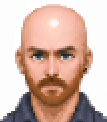
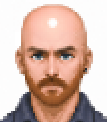
Blink the portrait on a timer and on every landed hit
Every 15s while idle, and on each hit that plays a hit sound -- the click
attack and all three slashes of the limit break.

Any blink restarts the idle countdown, so a hit that has just shut his
eyes is not followed by an idle blink moments later.

The swap changes the top layer's src without touching its key, so it is a
straight cut rather than a cross-fade: eyes shut and open again, they do
not dissolve into it. It also means a blink cannot interrupt a glance that
is still fading.

Note the blink frame is drawn over the centre pose and is the only variant
there is, so a blink only shows while he is looking straight ahead. That
is nearly always true for the click attack, since the pointer is on the
portrait and therefore inside the dead zone. It is often false for the
limit break, which is triggered from the gauge off to the right.

Claude-Session: https://claude.ai/code/session_01CjnpaYAr8vizShw4o1xh1Z

diff --git a/frontend/src/components/Portrait/Portrait.tsx b/frontend/src/components/Portrait/Portrait.tsx
@@ -1,6 +1,6 @@
 import { useEffect, useLayoutEffect, useRef, useState } from "react";
 import { useContext } from "../../context/context";
-import useLookDirection, { LOOK_DIRECTIONS, STATIC_LOOK, lookFrameSrc, type LookDirection } from "../../hooks/useLookDirection";
+import useLookDirection, { LOOK_DIRECTIONS, STATIC_LOOK, BLINK_SRC, BLINK_DIRECTION, lookFrameSrc, type LookDirection } from "../../hooks/useLookDirection";
 import styles from "./Portrait.module.scss";
 import {
     resolvePortrait,
@@ -17,6 +17,11 @@ interface PortraitProps {
      * Ignored by the character portraits, which have only the one frame.
      */
     look?: LookDirection | null;
+    /**
+     * Shuts his eyes while true. Only has a frame for the centre pose, so a
+     * blink is invisible while he is glancing anywhere else.
+     */
+    blink?: boolean;
     /**
      * Whether the portrait follows the mouse. Only the landing page does; the
      * copies on Equip, Skills, Name Entry and the resume are static.
@@ -48,7 +53,7 @@ interface PortraitProps {
 /** How long a glance takes to cross-fade. Short enough to feel like a reaction. */
 const FADE_MS = 20;
 
-const LookingPortrait: React.FC<{ src: string; width: number; className?: string; alt: string; look?: LookDirection | null }> = ({ src, width, className, alt, look }) => {
+const LookingPortrait: React.FC<{ src: string; width: number; className?: string; alt: string; look?: LookDirection | null; blink?: boolean }> = ({ src, width, className, alt, look, blink }) => {
     const ref = useRef<HTMLDivElement>(null);
     const pointing = useLookDirection(ref);
 
@@ -79,9 +84,9 @@ const LookingPortrait: React.FC<{ src: string; width: number; className?: string
     // fades in an image the browser has not fetched, so the transition plays
     // over nothing and lands as a hard cut.
     useEffect(() => {
-        for (const frame of LOOK_DIRECTIONS) {
+        for (const url of [...LOOK_DIRECTIONS.map(lookFrameSrc), BLINK_SRC]) {
             const preload = new Image();
-            preload.src = lookFrameSrc(frame);
+            preload.src = url;
         }
     }, []);
 
@@ -102,6 +107,12 @@ const LookingPortrait: React.FC<{ src: string; width: number; className?: string
         >
             <img src={lookFrameSrc(layers.under)} alt="" aria-hidden className={styles.frame} onError={onError} />
             {/*
+              * The blink swaps the top layer's src without touching its key, so
+              * it is a straight cut with no cross-fade: eyes shut and open
+              * again, they do not dissolve. It also means a blink cannot
+              * interrupt a glance that is mid-fade.
+              */}
+            {/*
               * Keyed by direction so each glance mounts a fresh element and the
               * CSS animation runs from the start. Restarting an animation on a
               * persistent node means clearing it and forcing a reflow between,
@@ -110,7 +121,7 @@ const LookingPortrait: React.FC<{ src: string; width: number; className?: string
               */}
             <img
                 key={layers.over}
-                src={lookFrameSrc(layers.over)}
+                src={blink && layers.over === BLINK_DIRECTION ? BLINK_SRC : lookFrameSrc(layers.over)}
                 alt=""
                 aria-hidden
                 className={`${styles.frame} ${styles.incoming}`}
@@ -122,13 +133,13 @@ const LookingPortrait: React.FC<{ src: string; width: number; className?: string
 
 // Renders the party member's portrait, swapping to an FF7 character's face from
 // the shared spritesheet when the (case-insensitive) name matches one.
-const Portrait: React.FC<PortraitProps> = ({ src, width = 145, className, name, alt = "Party Member Portrait", look, follow = false }) => {
+const Portrait: React.FC<PortraitProps> = ({ src, width = 145, className, name, alt = "Party Member Portrait", look, blink, follow = false }) => {
     const { userName } = useContext();
     const sprite = resolvePortrait(name ?? userName);
 
     if (!sprite) {
         if (follow) {
-            return <LookingPortrait src={src} width={width} className={className} alt={alt} look={look} />;
+            return <LookingPortrait src={src} width={width} className={className} alt={alt} look={look} blink={blink} />;
         }
         // Deliberately the plain element: no pointer listener, no preloading and
         // no cross-fade layers for a portrait that is never going to change.

diff --git a/frontend/src/components/PartyMember/PartyMember.tsx b/frontend/src/components/PartyMember/PartyMember.tsx
@@ -11,6 +11,7 @@ import { useContext } from "../../context/context.tsx";
 import { markKeyboardNavigation } from "../../hooks/useCursorNav.ts";
 import { landingNav } from "../../hooks/landingNav.ts";
 import useHeadbang from "../../hooks/useHeadbang.ts";
+import useBlink from "../../hooks/useBlink.ts";
 import styles from "./PartyMember.module.scss";
 import ContentBox from "../ContentBox/ContentBox.tsx";
 import Portrait from "../Portrait/Portrait.tsx";
@@ -42,6 +43,8 @@ const PartyMember: React.FC<partyMemberProps> = ({ memberId, showProgressBars = 
     const keyboardFocus = healthReduction ? landingFocus : null;
     // Konami code: the portrait nods along to the fanfare
     const [headbangLook, startHeadbang] = useHeadbang();
+    // Blinks on its own every so often, and on every hit that lands
+    const [blinking, blinkNow] = useBlink();
     const attackRef = useRef<() => void>(() => { });
     const reviveRef = useRef<() => void>(() => { });
 
@@ -150,6 +153,7 @@ const PartyMember: React.FC<partyMemberProps> = ({ memberId, showProgressBars = 
 
         const sound = (damage * multiplier > 200) ? "crit" : "slash";
         playSound(sound, isSoundEnabled);
+        blinkNow();
     }
 
     /**
@@ -183,6 +187,7 @@ const PartyMember: React.FC<partyMemberProps> = ({ memberId, showProgressBars = 
             // bar — it just stops dealing damage rather than cutting away mid-swing
             setLimitHits(index + 1);
             playSound(critical ? "crit" : "slash", isSoundEnabled);
+            blinkNow();
 
             if (!health) return;
 
@@ -254,7 +259,7 @@ const PartyMember: React.FC<partyMemberProps> = ({ memberId, showProgressBars = 
                         {/* healthReduction marks the landing instance -- the same flag
                             gates the cursor, the revive and the limit break. The copies
                             on Equip and Skills are static. */}
-                        <Portrait src={image_path} width={145} look={headbangLook} follow={healthReduction} />
+                        <Portrait src={image_path} width={145} look={headbangLook} blink={blinking} follow={healthReduction} />
                         {limitHits > 0 && (
                             <div
                                 className={styles.limitSlashes}

diff --git a/frontend/src/hooks/useBlink.ts b/frontend/src/hooks/useBlink.ts
@@ -1,0 +1,47 @@
+import { useCallback, useEffect, useRef, useState } from "react";
+
+/** Idle gap between blinks. */
+const IDLE_MS = 15000;
+
+/** How long the eyes stay shut. A real blink is about this. */
+const BLINK_MS = 110;
+
+/**
+ * Blinks the portrait on a timer, and on demand.
+ *
+ * Returns the current state and a trigger, so the caller can blink him at the
+ * moments that warrant one -- a hit landing -- on top of the idle rhythm.
+ */
+export default function useBlink(): [boolean, () => void] {
+    const [blinking, setBlinking] = useState(false);
+    const idle = useRef(0);
+    const close = useRef(0);
+    const blinkRef = useRef<() => void>(() => { });
+
+    useEffect(() => {
+        const blink = () => {
+            window.clearTimeout(close.current);
+            setBlinking(true);
+            close.current = window.setTimeout(() => setBlinking(false), BLINK_MS);
+
+            // Every blink restarts the idle countdown, so a hit that has just
+            // made him blink is not followed by an idle one a moment later.
+            window.clearTimeout(idle.current);
+            idle.current = window.setTimeout(blink, IDLE_MS);
+        };
+
+        blinkRef.current = blink;
+        idle.current = window.setTimeout(blink, IDLE_MS);
+
+        return () => {
+            window.clearTimeout(idle.current);
+            window.clearTimeout(close.current);
+        };
+    }, []);
+
+    // Stable identity: this ends up in a dependency array where a new function
+    // each render would re-register the effect that holds it.
+    const blinkNow = useCallback(() => blinkRef.current(), []);
+
+    return [blinking, blinkNow];
+}

diff --git a/frontend/src/hooks/useLookDirection.ts b/frontend/src/hooks/useLookDirection.ts
@@ -16,6 +16,16 @@ export const lookFrameSrc = (direction: LookDirection) =>
     `/portrait--look-${direction}.png`;
 
 /**
+ * Eyes closed. The only variant frame there is, and it is drawn over the centre
+ * pose, so a blink can only show while he is looking straight ahead -- glancing
+ * anywhere else has no closed-eye frame to swap to.
+ */
+export const BLINK_SRC = "/portrait--look-center--blink.png";
+
+/** The one direction BLINK_SRC is drawn for. */
+export const BLINK_DIRECTION: LookDirection = "center";
+
+/**
  * The frame every static portrait uses. The nine exist for the landing page's
  * mouse tracking; everywhere else picks one and stays on it.
  */

diff --git a/frontend/src/hooks/useHeadbang.ts b/frontend/src/hooks/useHeadbang.ts
@@ -6,7 +6,8 @@ import type { LookDirection } from "./useLookDirection";
  * middle frame the head teleports between the two extremes and reads as a
  * flicker rather than a nod -- the portrait has a centre frame, so use it.
  */
-const SEQUENCE: LookDirection[] = ["up", "center", "down-left", "center", "up", "center", "down-right", "center"];
+// const SEQUENCE: LookDirection[] = ["up", "center", "down-left", "center", "up", "center", "down-right", "center"];
+const SEQUENCE: LookDirection[] = ["up-right", "right"];
 
 /** Per frame. Four frames to the cycle, so a nod is a little over half a second. */
 const BEAT_MS = 120;
